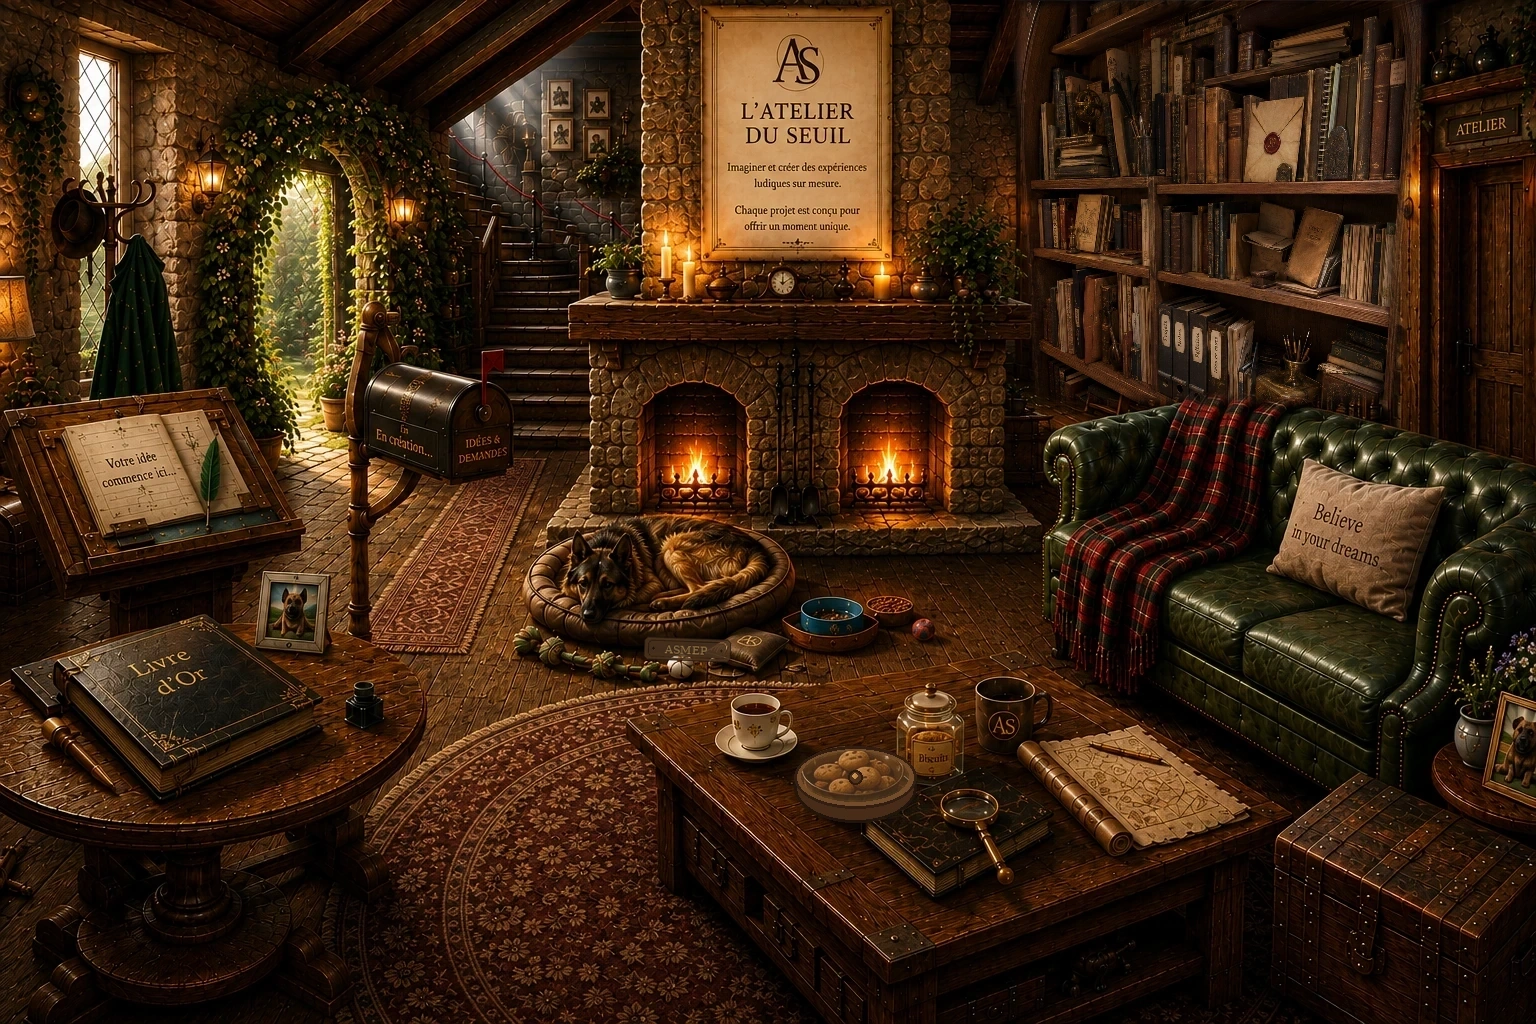
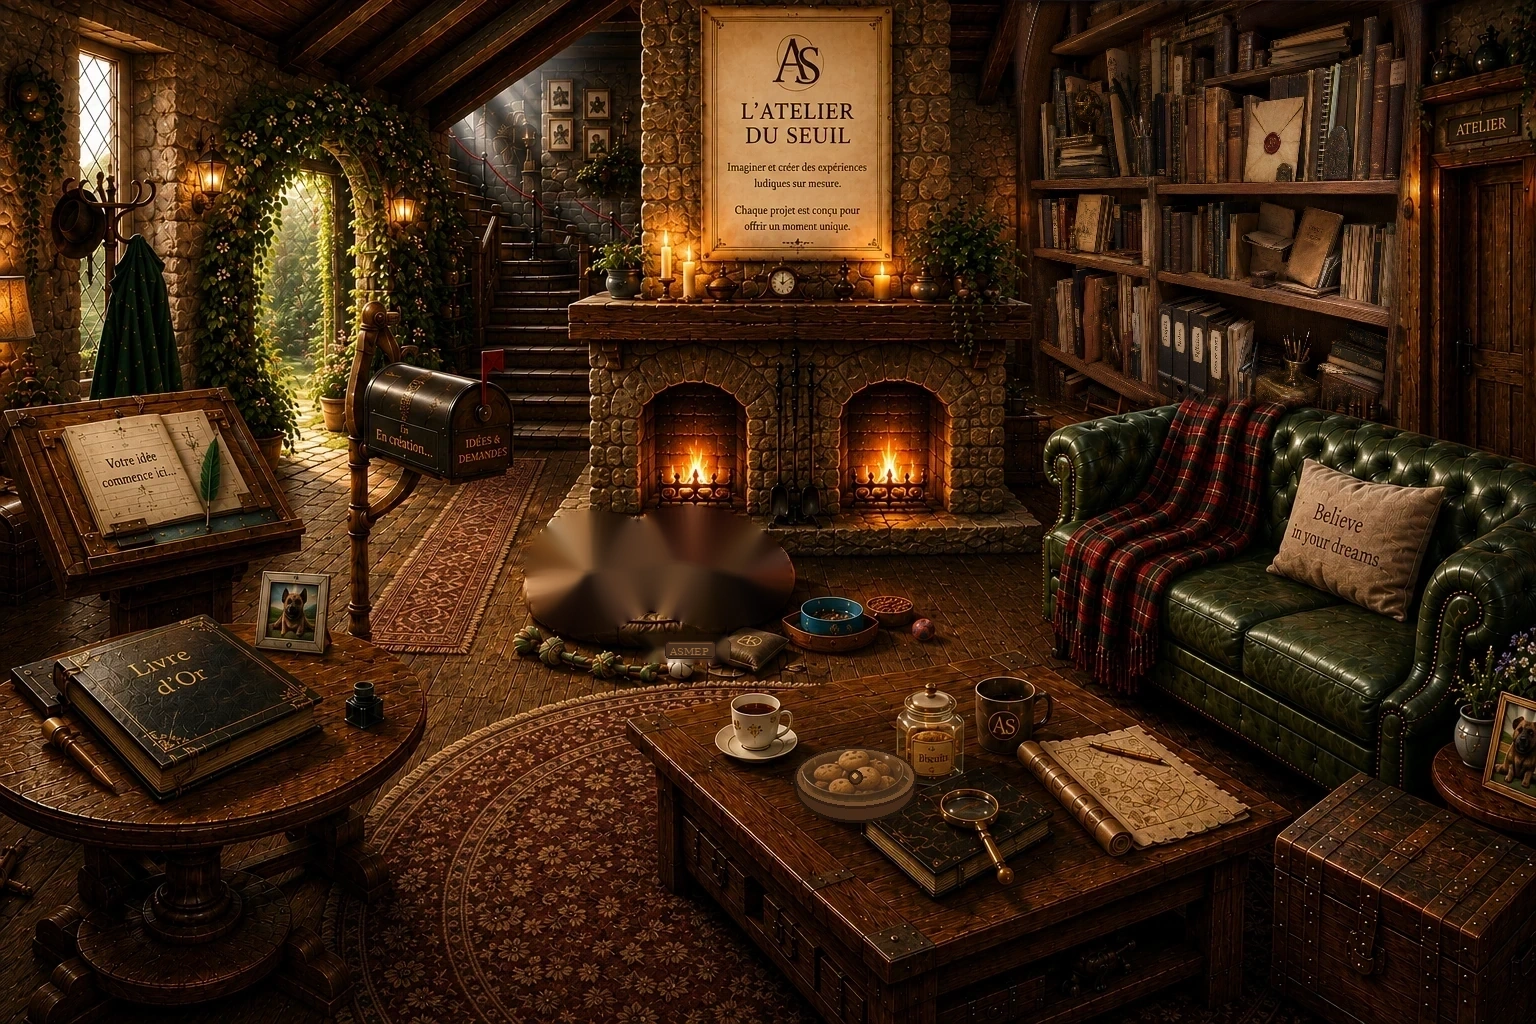
Add files via upload

Changed region(s): [[0.3438, 0.4688, 0.5312, 0.6562]]

diff --git a/index.html b/index.html
@@ -1,22 +1,19 @@
 <!DOCTYPE html>
-<html lang="fr"><head><meta charset="UTF-8"><meta name="viewport" content="width=device-width,initial-scale=1.0,viewport-fit=cover"><meta name="theme-color" content="#080b08"><meta name="description" content="Franchissez le seuil du Hall des Possibles."><title>Le Hall des Possibles — V0.6.1</title><link rel="preload" href="hall-vivant.webp" as="image"><link rel="stylesheet" href="style.css?v=0.6.2-asme-habitant"><script src="config.js?v=0.6.1-consolidee" defer></script><script src="script.js?v=0.6.2-asme-habitant" defer></script></head>
+<html lang="fr"><head><meta charset="UTF-8"><meta name="viewport" content="width=device-width,initial-scale=1.0,viewport-fit=cover"><meta name="theme-color" content="#080b08"><meta name="description" content="Franchissez le seuil du Hall des Possibles."><title>Le Hall des Possibles — V0.6.1</title><link rel="preload" href="hall-vivant.webp" as="image"><link rel="stylesheet" href="style.css?v=0.6.2-asme-independant"><script src="config.js?v=0.6.1-consolidee" defer></script><script src="script.js?v=0.6.2-asme-independant" defer></script></head>
 <body><main class="experience" id="experience">
 <section class="seuil" id="seuil" aria-label="Le seuil du Hall des Possibles"><div class="seuil__ambiance" aria-hidden="true"></div><header class="seuil__texte"><h1 class="seuil__titre">Le Hall des Possibles</h1><p class="seuil__phrase">Chaque histoire commence par une porte qui s'ouvre...<span>Que se cache-t-il derrière la vôtre&nbsp;?</span></p></header><div class="scene-porte"><div class="lueur-hall" aria-hidden="true"></div><div class="encadrement" aria-hidden="true"><div class="encadrement__haut"></div><div class="encadrement__gauche"></div><div class="encadrement__droite"></div></div><button class="porte" id="porte" type="button" aria-label="Ouvrir la porte du Hall des Possibles" aria-expanded="false"><span class="porte__panneau porte__panneau--haut" aria-hidden="true"></span><span class="porte__panneau porte__panneau--bas" aria-hidden="true"></span><span class="porte__poignee" aria-hidden="true"><span class="porte__plaque"></span><span class="porte__bouton"></span></span><span class="porte__lumiere" aria-hidden="true"></span></button></div><p class="seuil__invitation" id="invitation" aria-hidden="true"></p></section>
-<section class="hall" id="hall" aria-label="Le Hall des Possibles" aria-hidden="true"><div class="hall__panorama" id="panorama" tabindex="0"><div class="hall__scene" id="scene"><img class="hall__image" src="hall-vivant.webp?v=0.6.1-coherence-final" alt="Le Hall des Possibles, vaste atelier chaleureux de l’Atelier du Seuil, avec son arche végétale, sa cheminée double foyer et son compagnon fidèle." draggable="false"><div class="fire-glow fire-glow--left" aria-hidden="true"></div><div class="fire-glow fire-glow--right" aria-hidden="true"></div><div class="dog-breath" aria-hidden="true"></div>
-<div class="asme-presence" id="asme-presence" aria-hidden="true">
-  <!-- ASMEP n'a pas de "coin" : ses affaires vivent dans le Hall. -->
-  <span class="asme-ecusson">ASMEP</span>
+<section class="hall" id="hall" aria-label="Le Hall des Possibles" aria-hidden="true"><div class="hall__panorama" id="panorama" tabindex="0"><div class="hall__scene" id="scene"><img class="hall__image" src="hall-vivant.webp?v=0.6.2-asme-independant" alt="Le Hall des Possibles, vaste atelier chaleureux de l’Atelier du Seuil, avec son arche végétale, sa cheminée double foyer et son compagnon fidèle." draggable="false"><div class="fire-glow fire-glow--left" aria-hidden="true"></div><div class="fire-glow fire-glow--right" aria-hidden="true"></div><div class="dog-breath" aria-hidden="true"></div>
+<div class="asme-presence asme-habitant" id="asme-presence" aria-hidden="true">
+  <img class="asme-corps" src="asmep-corps.png?v=0.6.2-habitant-reel" alt="" draggable="false">
+  <img class="asme-tete" src="asmep-tete.png?v=0.6.2-habitant-reel" alt="" draggable="false">
+
+  <!-- Les traces de sa vie restent réparties dans le Hall. -->
   <span class="asme-balle"></span>
   <span class="asme-corde"></span>
   <span class="asme-laisse"></span>
   <span class="asme-carnet-sante"></span>
   <span class="asme-croquettes"></span>
   <span class="asme-trace-gamelle"></span>
-
-  <span class="asme-vie__poitrine"></span>
-  <span class="asme-vie__oreille"></span>
-  <span class="asme-vie__regard"></span>
-  <span class="asme-vie__souffle"></span>
 </div><div class="mail-flag" id="mail-flag" aria-hidden="true"></div><div class="requete-book" id="requete-book" aria-hidden="true"><span>Projet confié</span></div>
 <button class="hotspot hotspot--parole" id="parole-hotspot" data-title="La Parole du Seuil" aria-label="Ouvrir la Parole du Seuil"></button>
 <button class="hotspot hotspot--livre hotspot--murmure" data-text="Une page semble attendre une écriture qui ne vient pas de l’Artisan." aria-label="Feuilleter du regard le livre posé sur la table"></button>

diff --git a/style.css b/style.css
@@ -1738,3 +1738,126 @@ button { font: inherit; }
   cursor:default!important;
   user-select:none!important;
 }
+
+
+/* ==========================================================
+   V0.6.2 — ASMEP INDÉPENDANT DU DÉCOR
+   Le chien est désormais composé de vrais calques visuels.
+   ========================================================== */
+
+.asme-habitant{
+  position:absolute;
+  inset:0;
+  z-index:8;
+  pointer-events:none!important;
+}
+
+.asme-corps,
+.asme-tete{
+  position:absolute;
+  display:block;
+  max-width:none;
+  pointer-events:none;
+  user-select:none;
+  transform-origin:center center;
+  will-change:transform;
+}
+
+/* Position exacte dans la scène 1536x1024, exprimée en %. */
+.asme-corps{
+  left:33.5286%;
+  top:48.8281%;
+  width:18.5547%;
+  height:auto;
+  transform-origin:54% 66%;
+  animation:asme-respiration-reelle 7.4s ease-in-out infinite;
+}
+
+.asme-tete{
+  left:33.8542%;
+  top:49.8047%;
+  width:8.7891%;
+  height:auto;
+  transform-origin:58% 72%;
+}
+
+/* Les anciens faux effets du chien sont neutralisés. */
+.asme-vie__poitrine,
+.asme-vie__oreille,
+.asme-vie__regard,
+.asme-vie__souffle,
+.asme-ecusson{
+  display:none!important;
+}
+
+/* Respiration : le corps entier vit très légèrement. */
+@keyframes asme-respiration-reelle{
+  0%,100%{transform:scale(1)}
+  50%{transform:scale(1.007,1.012)}
+}
+
+/* Mouvements ponctuels. Ils concernent désormais ASMEP lui-même. */
+.asme-habitant.is-ear .asme-tete{
+  animation:asme-tete-oreille 1.3s ease-in-out both;
+}
+
+.asme-habitant.is-look .asme-tete{
+  animation:asme-tete-regard 4.4s ease-in-out both;
+}
+
+.asme-habitant.is-sigh .asme-corps{
+  animation:
+    asme-soupir-corps 2.8s ease-in-out both,
+    asme-respiration-reelle 7.4s ease-in-out infinite 2.8s;
+}
+
+.asme-habitant.is-shift .asme-corps{
+  animation:
+    asme-change-position-corps 3.6s ease-in-out both,
+    asme-respiration-reelle 7.4s ease-in-out infinite 3.6s;
+}
+.asme-habitant.is-shift .asme-tete{
+  animation:asme-change-position-tete 3.6s ease-in-out both;
+}
+
+@keyframes asme-tete-oreille{
+  0%,100%{transform:translate(0,0) rotate(0deg)}
+  28%{transform:translate(0,-1px) rotate(-1.2deg)}
+  52%{transform:translate(1px,-1px) rotate(.7deg)}
+}
+
+@keyframes asme-tete-regard{
+  0%,100%{transform:translate(0,0) rotate(0deg)}
+  18%{transform:translate(0,-2px) rotate(-1deg)}
+  42%,68%{transform:translate(4px,-5px) rotate(2.2deg)}
+  88%{transform:translate(1px,-1px) rotate(.4deg)}
+}
+
+@keyframes asme-soupir-corps{
+  0%,100%{transform:scale(1)}
+  28%{transform:scale(1.009,1.018)}
+  62%{transform:scale(.997,.991)}
+}
+
+@keyframes asme-change-position-corps{
+  0%,100%{transform:translate(0,0) scale(1)}
+  30%{transform:translate(2px,-1px) scale(1.006,.997)}
+  68%{transform:translate(-2px,1px) scale(.998,1.005)}
+}
+@keyframes asme-change-position-tete{
+  0%,100%{transform:translate(0,0) rotate(0deg)}
+  30%{transform:translate(3px,-3px) rotate(1.6deg)}
+  68%{transform:translate(-1px,1px) rotate(-.8deg)}
+}
+
+@media(max-width:700px){
+  .asme-corps{animation-duration:7.8s}
+}
+
+@media(prefers-reduced-motion:reduce){
+  .asme-corps,
+  .asme-tete{
+    animation:none!important;
+    transform:none!important;
+  }
+}
